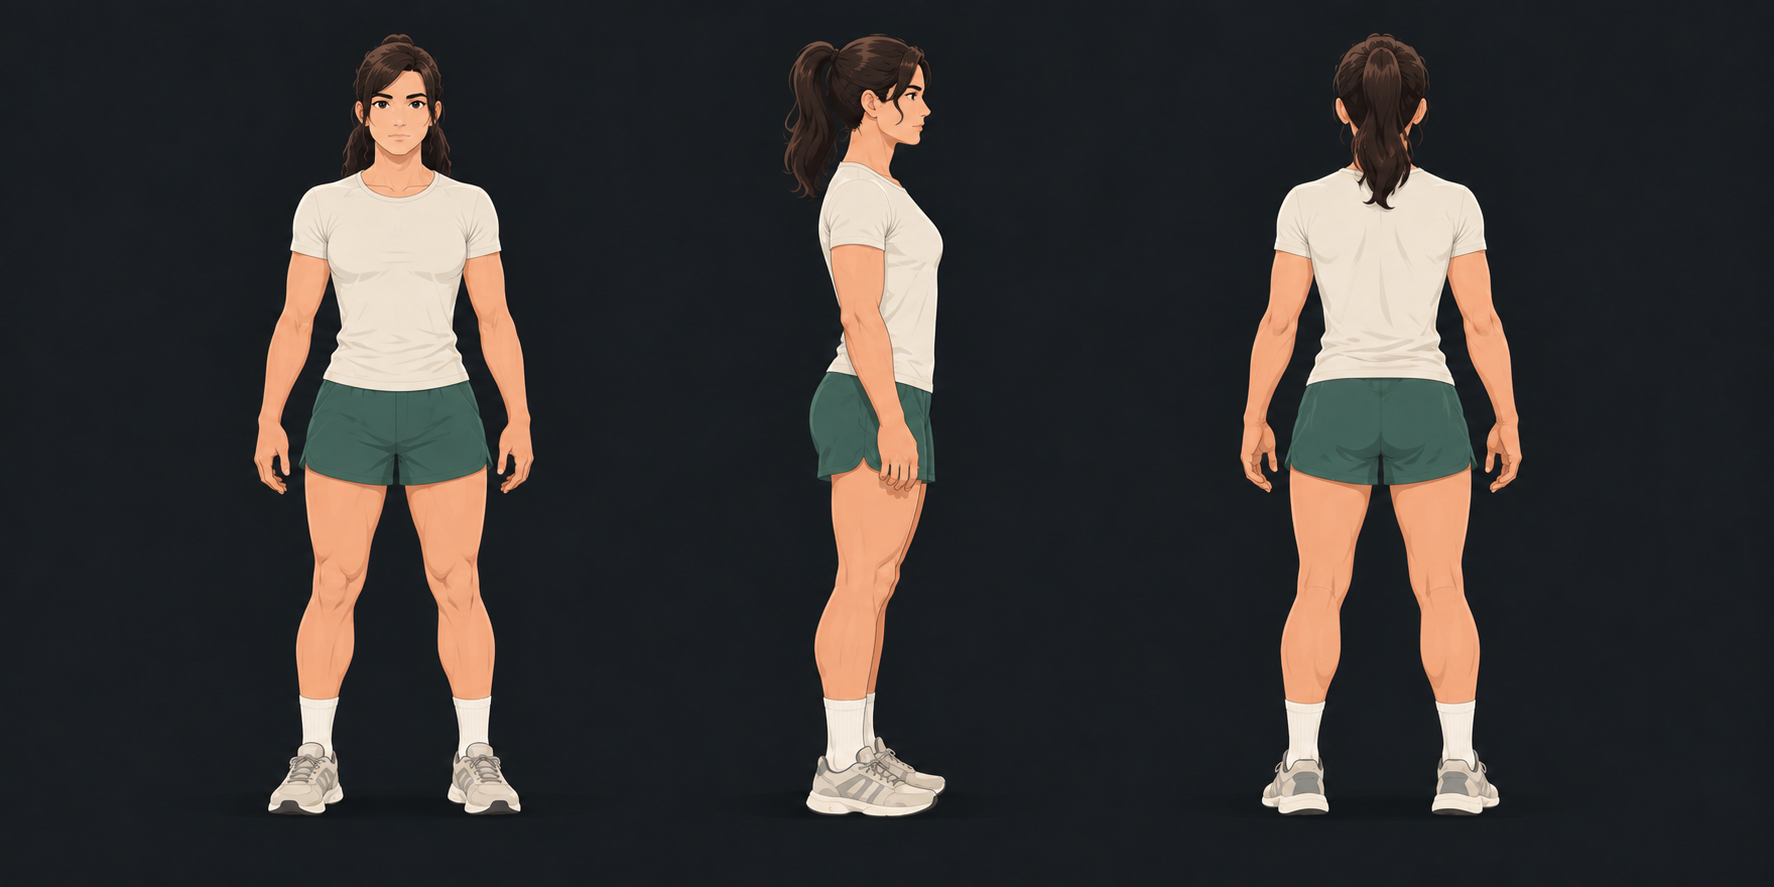
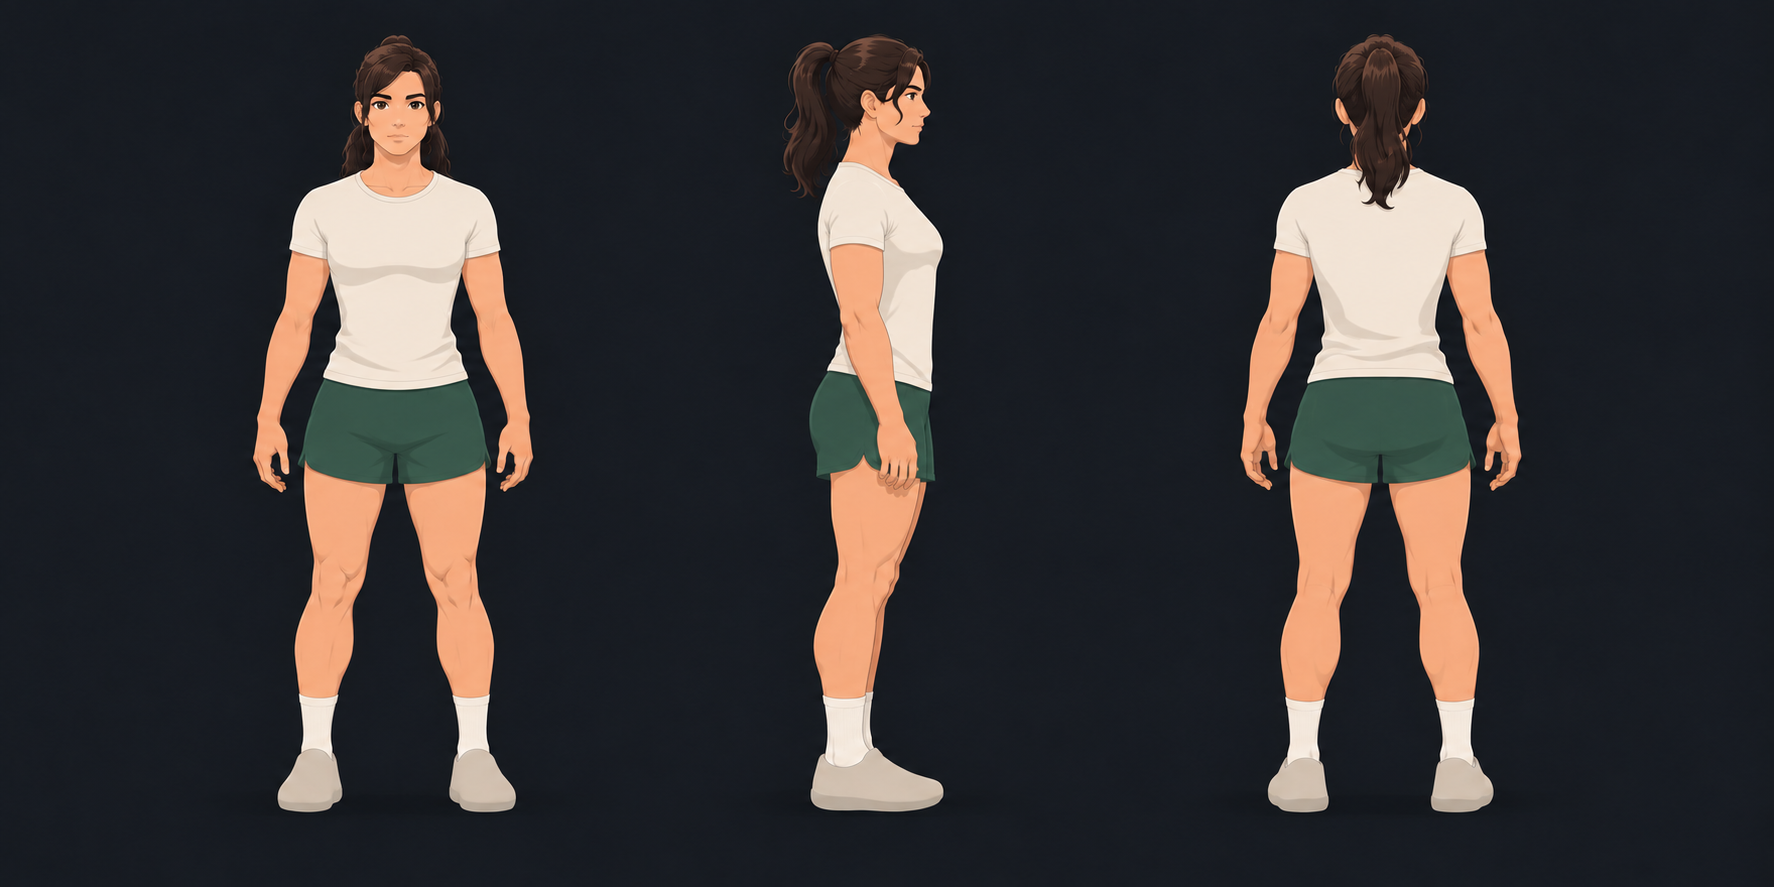
Simplify exercise image generation references

diff --git a/art/exercise-images/README.md b/art/exercise-images/README.md
@@ -21,7 +21,10 @@ View: {{FRONT, SIDE, REAR, OR THREE-QUARTER}}
 
 Create one polished instructional illustration of the reference athlete doing
 the exercise. Keep his face, hair, build, off-white T-shirt, deep green shorts,
-white socks, and gray shoes unchanged. Use the same near-black charcoal card
+and white socks. Render the shirt and shorts with smooth color, broad shading,
+and only the folds needed for the pose. Match the seed's plain, solid light warm
+gray slip-ons with smooth uppers and flat soles in the same color. Omit laces,
+eyelets, seams, stripes, logos, tread, and texture. Use the same near-black charcoal card
 background and softly cel-shaded 2D finish as the reference. Show the whole
 body and all equipment, centered with generous padding, on a wide 2:1 canvas.
 Choose a clear, anatomically correct key position.
@@ -87,7 +90,9 @@ Use `style-seed.png` as the first reference, `style-seed-female.png` as the
 female character reference, and the original exercise illustration as the
 pose and equipment reference. Preserve the exercise, view, outfit, background,
 and rendering style. The female athlete has dark brown hair in a ponytail,
-an off-white T-shirt, deep green shorts, white socks, and gray shoes.
+an off-white T-shirt, deep green shorts, white socks, and the same plain gray
+slip-ons. Match the female seed's smooth fabric and plain shoes. Keep only the
+folds needed for the pose.
 
 `female-variants.json` records every source, destination, exercise name, and
 full prompt from the built-in `image_gen` generation run. Normalize female
